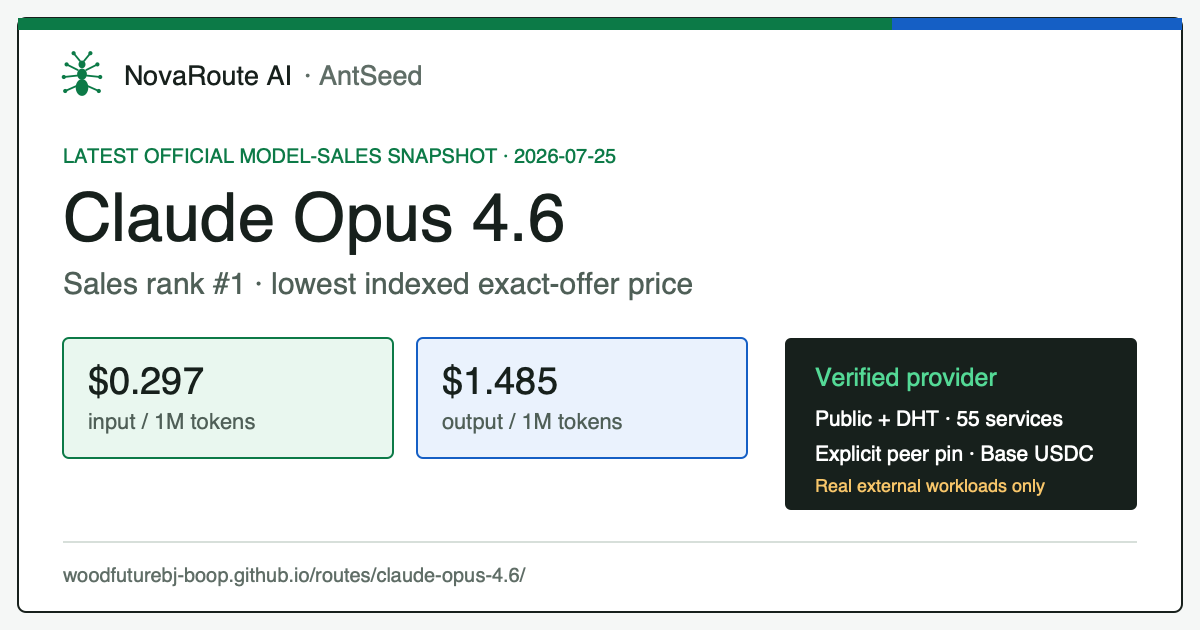
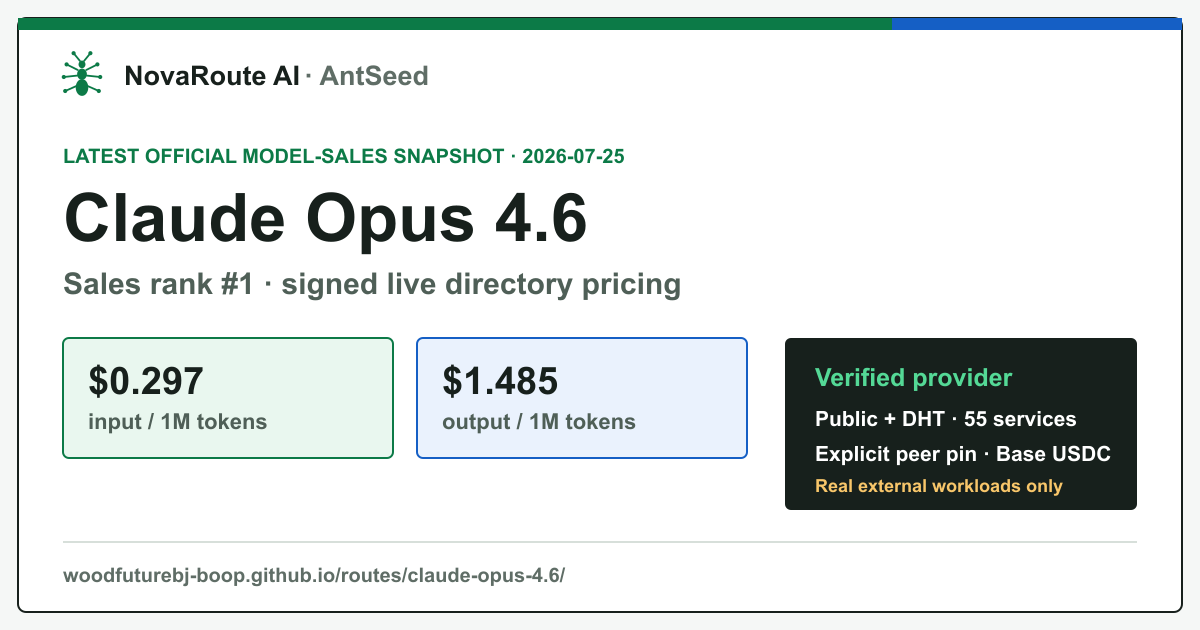
Correct Claude 4.6 market claim

diff --git a/index.html b/index.html
@@ -3,7 +3,7 @@
   <head>
     <meta charset="utf-8">
     <meta name="viewport" content="width=device-width, initial-scale=1">
-    <meta name="description" content="Pin NovaRoute AI on AntSeed and run a real Claude Opus 4.6 workload through the lowest-priced indexed exact offer in AntSeed's latest top-sales route.">
+    <meta name="description" content="Pin NovaRoute AI on AntSeed and run a real Claude Opus 4.6 workload through a verified peer with signed live pricing and official top-sales evidence.">
     <meta name="robots" content="index,follow,max-image-preview:large">
     <meta property="og:type" content="website">
     <meta property="og:title" content="NovaRoute AI | AntSeed Provider">
@@ -15,7 +15,7 @@
     <meta property="og:image:type" content="image/png">
     <meta name="twitter:card" content="summary_large_image">
     <meta name="twitter:title" content="NovaRoute AI | AntSeed Provider">
-    <meta name="twitter:description" content="Claude Opus 4.6 leads AntSeed's latest sales snapshot; this verified peer has the lowest indexed exact-offer price.">
+    <meta name="twitter:description" content="Claude Opus 4.6 leads AntSeed's latest sales snapshot; inspect this verified peer's signed live price before use.">
     <meta name="twitter:image" content="https://woodfuturebj-boop.github.io/assets/antseed-claude-opus46-sales-card.png">
     <link rel="canonical" href="https://woodfuturebj-boop.github.io/">
     <link rel="icon" href="assets/antseed-mark.svg" type="image/svg+xml">
@@ -634,7 +634,7 @@
           <p class="lede">Start an AntSeed buyer pinned to this verified peer, then run a real OpenAI-compatible workload through a published high-demand route. Check the signed live catalog before sending work.</p>
           <div class="launch-offer">
             <strong>Claude Opus 4.6 with signed live directory pricing</strong>
-            <span>Latest official sales rank one · lowest indexed exact-offer price · Base USDC</span>
+            <span>Latest official sales rank one · signed live pricing · Base USDC</span>
           </div>
           <div class="actions hero-actions">
             <a class="action" href="https://github.com/AntSeed/antseed/releases/latest" target="_blank" rel="noopener">Download AntStation</a>
@@ -712,7 +712,7 @@ antseed buyer balance</code></pre>
           <p class="notice"><strong>Finish cleanly:</strong> When the real workload is done, stop the foreground buyer with <code>Ctrl+C</code> and wait for <code>Disconnected. All channels finalized.</code> before closing the terminal. Do not force-kill the buyer process; graceful shutdown finalizes the payment channel normally and releases unused deposit.</p>
           <div class="first-call" id="first-workload">
             <h3>Step 04: Choose a real first workload</h3>
-            <p id="starter-summary"><code id="starter-model-name">claude-opus-4.6</code> <span id="starter-summary-text">ranks first in AntSeed's latest official model-sales snapshot and has the lowest indexed exact-offer price. Open a second terminal, replace the message with a task you actually need completed, and confirm the signed live price before use.</span></p>
+            <p id="starter-summary"><code id="starter-model-name">claude-opus-4.6</code> <span id="starter-summary-text">ranks first in AntSeed's latest official model-sales snapshot and uses signed live directory pricing. Open a second terminal, replace the message with a task you actually need completed, and confirm the signed live price before use.</span></p>
             <div class="model-picker">
               <span class="model-picker-label">Starter model</span>
               <div class="model-selector" role="group" aria-label="Starter model">
@@ -1027,13 +1027,13 @@ before create_session.</code></pre>
               <a class="action" id="share-x" href="https://twitter.com/intent/tweet" target="_blank" rel="noopener">Share on X</a>
             </div>
             <div class="command">
-              <pre id="share-copy"><code>AntSeed route: claude-opus-4.6 with signed live directory pricing. Latest official sales rank one, lowest indexed exact-offer price, verified peer, Base USDC, explicit pin. Real workloads only.
+              <pre id="share-copy"><code>AntSeed route: claude-opus-4.6 with signed live directory pricing. Latest official sales rank one, verified peer, Base USDC, explicit pin. Real workloads only.
 
 https://woodfuturebj-boop.github.io/routes/claude-opus-4.6/</code></pre>
               <button class="copy-button" type="button" data-copy-target="share-copy">Copy</button>
             </div>
             <div class="command">
-              <pre id="share-copy-zh"><code>AntSeed 真实工作负载路由：claude-opus-4.6，使用签名目录实时价格。最新官方销售榜第一，精确同名报价中价格最低；已验证 peer，Base USDC，需显式 pin。仅用于真实任务。
+              <pre id="share-copy-zh"><code>AntSeed 真实工作负载路由：claude-opus-4.6，使用签名目录实时价格。最新官方销售榜第一；已验证 peer，Base USDC，需显式 pin。仅用于真实任务。
 
 https://woodfuturebj-boop.github.io/routes/claude-opus-4.6/</code></pre>
               <button class="copy-button" type="button" data-copy-target="share-copy-zh">复制中文邀请</button>
@@ -1114,7 +1114,7 @@ https://woodfuturebj-boop.github.io/routes/claude-opus-4.6/</code></pre>
         "claude-opus-4.6": {
           input: "$0.297",
           output: "$1.485",
-          summary: "ranks first in AntSeed's latest official model-sales snapshot and has the lowest indexed exact-offer price",
+          summary: "ranks first in AntSeed's latest official model-sales snapshot and uses signed live directory pricing",
         },
         "claude-sonnet-5": {
           input: "$0.236412",
@@ -1152,7 +1152,7 @@ https://woodfuturebj-boop.github.io/routes/claude-opus-4.6/</code></pre>
           return "AntSeed agent: novaroute-code-audit-v1 for findings-first code, Web3 transaction-safety, and release-readiness reviews. Read-only, verified peer, Base USDC, real workloads only.";
         }
         if (model === "claude-opus-4.6") {
-          return "AntSeed route: claude-opus-4.6 with signed live directory pricing. Latest official sales rank one and lowest indexed exact-offer price. Verified peer, Base USDC, explicit pin. Real workloads only.";
+          return "AntSeed route: claude-opus-4.6 with signed live directory pricing. Latest official sales rank one, verified peer, Base USDC, explicit pin. Real workloads only.";
         }
         if (model === "minimax-m2.7") {
           return "AntSeed route: minimax-m2.7 ranks eighth in AntSeed's official token-volume snapshot. Signed live pricing, verified peer, Base USDC, explicit pin. Real workloads only.";
@@ -1165,7 +1165,7 @@ https://woodfuturebj-boop.github.io/routes/claude-opus-4.6/</code></pre>
           return "AntSeed 差异化审计代理：novaroute-code-audit-v1，用于结果优先的代码、Web3 交易安全和发布就绪审查。只读，已验证 peer，Base USDC，仅用于真实任务。";
         }
         if (model === "claude-opus-4.6") {
-          return "AntSeed 真实工作负载路由：claude-opus-4.6，使用签名目录实时价格。最新官方销售榜第一，精确同名报价中价格最低。已验证 peer，Base USDC，需显式 pin。仅用于真实任务。";
+          return "AntSeed 真实工作负载路由：claude-opus-4.6，使用签名目录实时价格。最新官方销售榜第一。已验证 peer，Base USDC，需显式 pin。仅用于真实任务。";
         }
         if (model === "minimax-m2.7") {
           return "AntSeed 真实工作负载路由：minimax-m2.7，在官方 token 用量榜中排名第八。签名目录实时价格，已验证 peer，Base USDC，需显式 pin。仅用于真实任务。";

diff --git a/routes/claude-opus-4.6/index.html b/routes/claude-opus-4.6/index.html
@@ -4,10 +4,10 @@
     <meta charset="utf-8">
     <meta name="viewport" content="width=device-width, initial-scale=1">
     <meta http-equiv="refresh" content="0; url=https://woodfuturebj-boop.github.io/?model=claude-opus-4.6#first-workload">
-    <meta name="description" content="Run AntSeed's latest top-selling model through the lowest-priced indexed claude-opus-4.6 exact offer with a verified peer pin.">
+    <meta name="description" content="Run AntSeed's latest top-selling model through a verified claude-opus-4.6 peer with signed live pricing.">
     <meta property="og:type" content="website">
     <meta property="og:title" content="Claude Opus 4.6 | Top-Sales AntSeed Route">
-    <meta property="og:description" content="Latest official sales rank one. Lowest indexed exact-offer price, signed live pricing, explicit peer pin, and Base USDC.">
+    <meta property="og:description" content="Latest official sales rank one, signed live pricing, explicit peer pin, and Base USDC.">
     <meta property="og:url" content="https://woodfuturebj-boop.github.io/routes/claude-opus-4.6/">
     <meta property="og:image" content="https://woodfuturebj-boop.github.io/assets/antseed-claude-opus46-sales-card.png">
     <meta property="og:image:width" content="1200">
@@ -15,7 +15,7 @@
     <meta property="og:image:type" content="image/png">
     <meta name="twitter:card" content="summary_large_image">
     <meta name="twitter:title" content="Claude Opus 4.6 | Top-Sales AntSeed Route">
-    <meta name="twitter:description" content="Latest official sales rank one and lowest indexed exact-offer price through a verified AntSeed peer.">
+    <meta name="twitter:description" content="Latest official sales rank one with signed live pricing through a verified AntSeed peer.">
     <meta name="twitter:image" content="https://woodfuturebj-boop.github.io/assets/antseed-claude-opus46-sales-card.png">
     <link rel="canonical" href="https://woodfuturebj-boop.github.io/?model=claude-opus-4.6#first-workload">
     <title>Claude Opus 4.6 | Top-Sales AntSeed Route</title>

diff --git a/README.md b/README.md
@@ -38,7 +38,7 @@ payment channel normally and release unused deposit.
 
 In a second terminal, run one real workload through the pinned
 `claude-opus-4.6` route. It ranks first in AntSeed's July 25 official
-model-sales snapshot and has the lowest indexed exact-offer price:
+model-sales snapshot and exposes signed live directory pricing:
 
 ```bash
 curl http://127.0.0.1:8377/v1/chat/completions \
@@ -88,13 +88,13 @@ command ready to copy:
 - [`claude-opus-4-7-fast`](https://woodfuturebj-boop.github.io/routes/claude-opus-4-7-fast/) - stable demand-backed route; inspect signed live pricing before use
 - [`novaroute-code-audit-v1`](https://woodfuturebj-boop.github.io/routes/novaroute-code-audit-v1/) - read-only specialist agent for findings-first code, Web3 transaction-safety, and release-readiness reviews; [compare on AntFeed](https://www.antfeed.org/services/novaroute-code-audit-v1)
 - [`claude-opus-4-8-fast`](https://woodfuturebj-boop.github.io/routes/claude-opus-4-8-fast/) - current-demand rank-one route; inspect signed live pricing before use
-- [`claude-opus-4.6`](https://woodfuturebj-boop.github.io/routes/claude-opus-4.6/) - first in AntSeed's July 25 official model-sales snapshot and lowest-priced indexed exact offer
+- [`claude-opus-4.6`](https://woodfuturebj-boop.github.io/routes/claude-opus-4.6/) - first in AntSeed's July 25 official model-sales snapshot; inspect signed live pricing before use
 - [`claude-sonnet-5`](https://woodfuturebj-boop.github.io/?model=claude-sonnet-5#first-workload)
 - [`claude-fable-5`](https://woodfuturebj-boop.github.io/?model=claude-fable-5#first-workload)
 
 ## Featured services
 
-- `claude-opus-4.6` - first in the latest official model-sales snapshot; lowest-priced indexed exact offer
+- `claude-opus-4.6` - first in the latest official model-sales snapshot; signed live directory pricing
 - `gpt-5.6-sol` - highest upstream dollar volume in the current market sample; exact rank one
 - `gpt-5.6-sol-pro` - second-highest current reasoning volume; exact rank one
 - `claude-sonnet-5` - high-value coding demand; exact rank one
